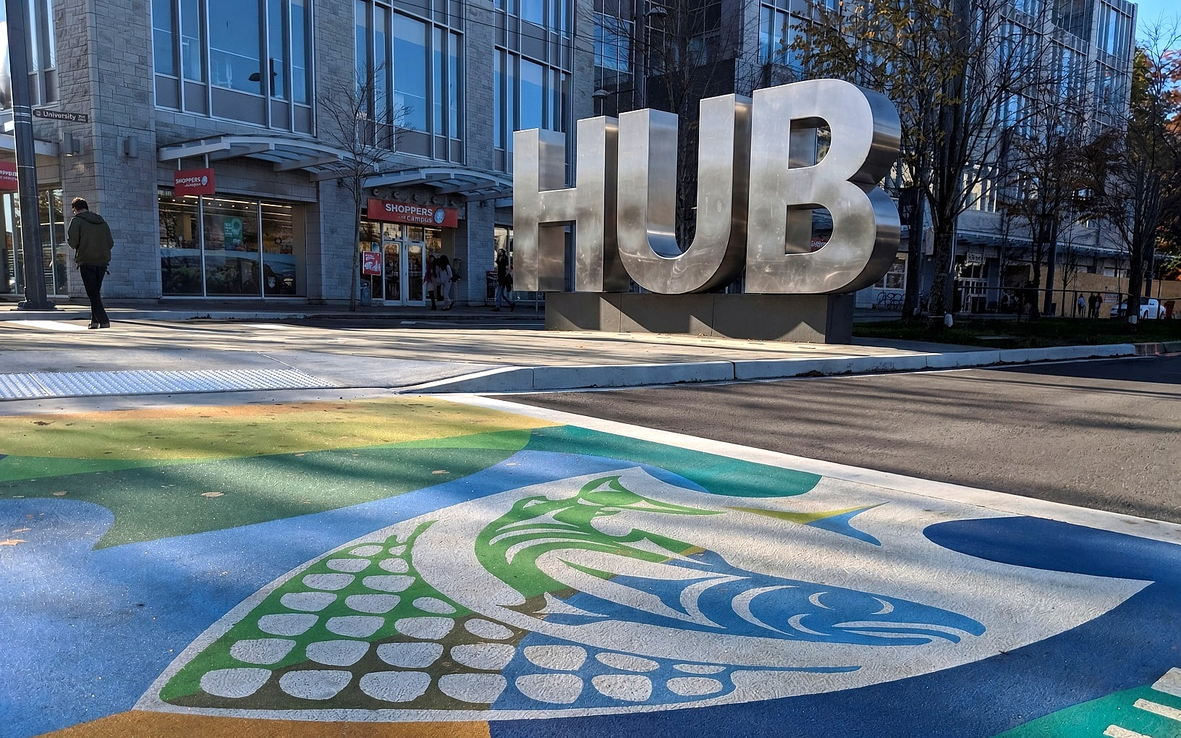
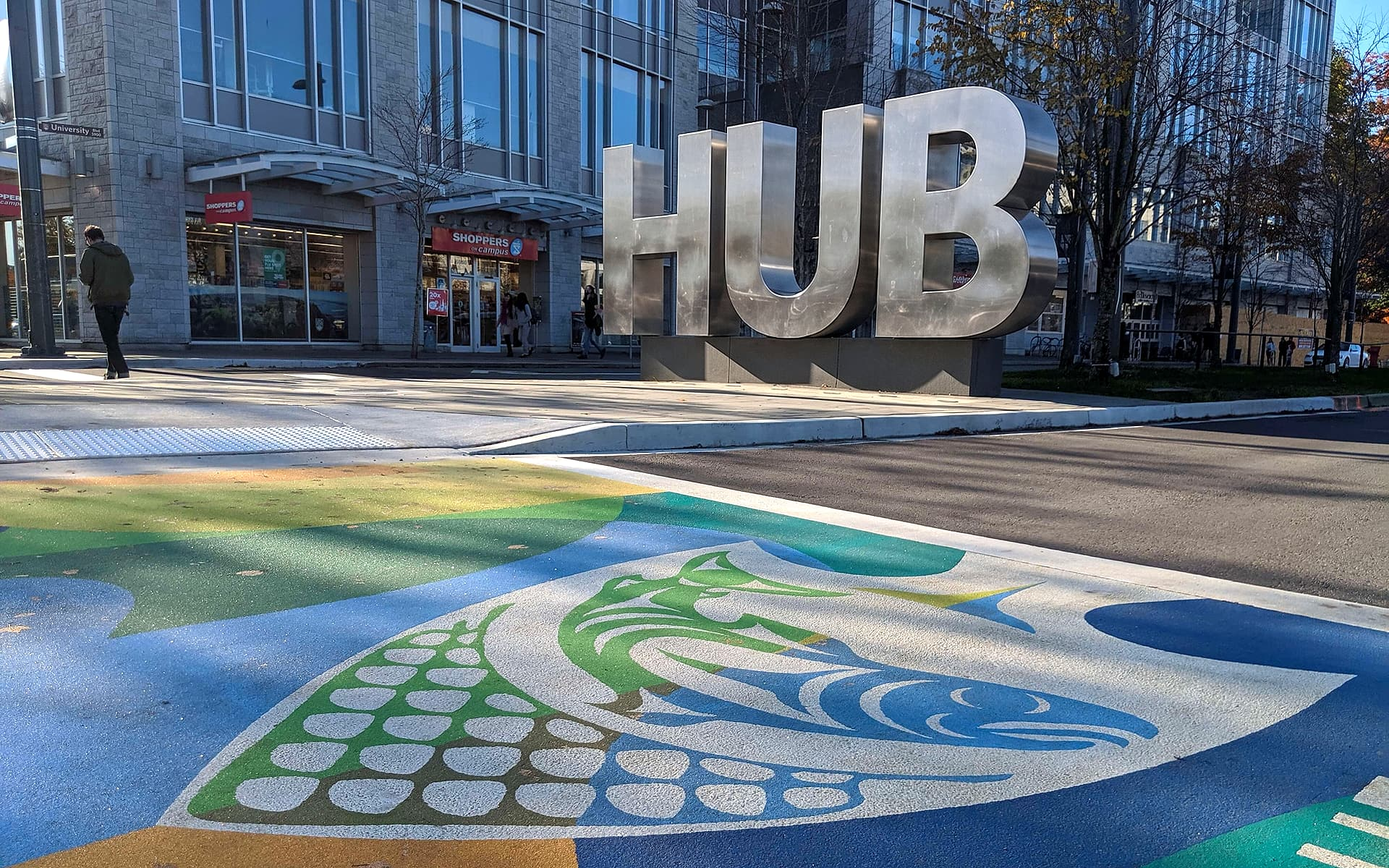
Homepage hero zoomed out on wide windows; new cuts from the full-size photograph
Vern, 2 Oct 2026: "main hero image, can it be zoomed out a bit to show more
of the crosswalk?" (his window was about 1625 x 720: the sign filled the top
half and the Musqueam art was cut off under the headline and buttons).

The photograph is 4:3 with nothing more at its sides, so a full-width
picture in a frame that wide can only show more crosswalk by cutting the
sign. On windows 16:9 and wider (the ones that get hero-1-wide.jpg) the
photo is now shown whole at the hero's height, against the right edge, its
left edge fading into the dark ground under the headline: the sign with a
little air above it and the salmon down through its scales. Trade: there
the picture no longer reaches the left edge (about an eighth of a 16:9
window, at most 30% on very wide ones). 1440 x 900, tablets and phones stay
full-bleed (lib/hero-framing.ts HOME_HERO, HeroSlideshow.tsx .home-hero-img;
the rule takes the wide <source>'s own media query).

The cuts come from a new master at the original's size (2540 x 1904, the
catalogue's "UBC Crosswalk 1.png" with the approved HUB letters pasted in,
toned and feathered; not in the repo). scripts/hero-cuts.mjs: every cut
starts just above the sign; wide is 1.8:1 from row 150; 16:10 from row 71,
which frames at 1440 x 900 as the old file did, so Studio's copy looks the
same until it is replaced (photos:sync); phone keeps the sign's size, starts
at row 110 so the crosswalk band shows at its foot. --grade=pop as on 28 Sep;
[…]

diff --git a/components/sections/HeroSlideshow.tsx b/components/sections/HeroSlideshow.tsx
@@ -5,9 +5,31 @@ import Link from "next/link";
 // fetchPriority="high" ensures the browser's HTML preload scanner picks this up first.
 // || instead of ?? guards against empty-string heroImageSrc from Sanity.
 import { heroAlt } from "@/lib/image-seo";
+import { HOME_HERO } from "@/lib/hero-framing";
 import { isSanityImage, sanitySized, sanitySrcSet } from "@/lib/photos";
 
 const FALLBACK_HERO = "/images/hero/hero-1.jpg";
+
+/**
+ * How the photograph sits in the hero (lib/hero-framing.ts, HOME_HERO). By
+ * default it covers the frame, as it always has. On windows 16:9 and wider,
+ * the ones that get the wide cut, it is shown whole at the hero's height,
+ * against the right edge, its left edge fading into the dark ground under
+ * the headline: 2 Oct 2026, Vern: "main hero image, can it be zoomed out a
+ * bit to show more of the crosswalk?" The rule uses the wide <source>'s own
+ * media query, so the framing and the file always switch together; with no
+ * wide file there is no wide rule.
+ */
+function heroImageCss(wideMedia?: string): string {
+  const w = HOME_HERO.wide;
+  const fade = `linear-gradient(to right, transparent 0, #000 ${w.feather}%)`;
+  return `
+    .home-hero-img { position: absolute; inset: 0; width: 100%; height: 100%; object-fit: cover; object-position: ${HOME_HERO.position}; z-index: 1; }
+    ${wideMedia ? `@media ${wideMedia} {
+      .home-hero-img { left: auto; width: clamp(${w.minWidth}%, calc(${w.heroHeight} * ${w.shape}), 100%); object-position: 50% 0%; -webkit-mask-image: ${fade}; mask-image: ${fade}; }
+    }` : ""}
+  `;
+}
 
 interface HeroSlideshowProps {
   eyebrow?: string;
@@ -45,6 +67,7 @@ export default function HeroSlideshow({
   // A Sanity photo is sized by Sanity's CDN (lib/photos.ts): a phone gets an
   // 828px WebP instead of the full-size original.
   const fromSanity = isSanityImage(src);
+  const wideSource = heroSources.find((v) => v.file === HOME_HERO.wide.file);
 
   return (
     <section
@@ -83,31 +106,16 @@ export default function HeroSlideshow({
           fetchPriority="high"
           // The file is graded when it is cut; this adds the site's lighter
           // hero colour on top (app/globals.css, HERO COLOUR).
-          className="hero-pop-lite"
-          style={{
-            position: "absolute",
-            inset: 0,
-            width: "100%",
-            height: "100%",
-            objectFit: "cover",
-            // The HUB sign is the photograph's subject. Since 26 Sep 2026 the
-            // files are cut from a master with the sign in the middle of
-            // every framing (scripts/hero-cuts.mjs), so a centred crop keeps
-            // it in the middle at every size; a phone gets the 9:16 cut and
-            // a wide window the 2:1 cut through the <picture> above. (The
-            // earlier single landscape file needed 65% across and 0% down to
-            // keep the sign whole; that photograph is gone.)
-            // 28 Sep 2026: across, 69% keeps the whole sign in a portrait
-            // tablet's frame (at 50% the B was cut off at 768 x 1024); it
-            // changes nothing on a landscape screen, where the photo is as
-            // wide as the frame. Down, 42% gives the sign a little more air
-            // under the nav where the frame is wider than the photo (16:10
-            // photo in a 1.8:1 frame at 1440 x 900).
-            objectPosition: "69% 42%",
-            zIndex: 1,
-          }}
+          // Position and size come from .home-hero-img (heroImageCss above): the
+          // HUB sign is the subject and every cut keeps it whole with a
+          // little air above it (scripts/hero-cuts.mjs); a phone gets the 5:4
+          // cut and a window 16:9 or wider the 1.8:1 cut through this
+          // <picture>. The default's object-position and the reasons for it
+          // are HOME_HERO.position in lib/hero-framing.ts.
+          className="hero-pop-lite home-hero-img"
         />
       </picture>
+      <style>{heroImageCss(wideSource?.media)}</style>
 
       {/* ── Gradients — lightened per Doug review for brighter hero ───── */}
       {/* On a phone the picture is lighter (the type is not on it) and only

diff --git a/lib/hero-framing.ts b/lib/hero-framing.ts
@@ -100,3 +100,45 @@ export const HERO_POP_LITE: ReadonlySet<string> = new Set([
 export function heroColourClass(photo: { src: string; origin?: string }): "hero-pop" | "hero-pop-lite" {
   return HERO_POP_LITE.has(photo.origin ?? photo.src) ? "hero-pop-lite" : "hero-pop";
 }
+
+/**
+ * The homepage hero (components/sections/HeroSlideshow.tsx), 2 Oct 2026.
+ *
+ * Vern: "main hero image, can it be zoomed out a bit to show more of the
+ * crosswalk?" His screen was a wide window (about 1625 x 720), where the
+ * hero is about 2.3 to 2.6 times as wide as it is tall. The photograph is
+ * 4:3 and has nothing at its sides beyond what the frame already shows, so a
+ * full-width picture in a frame that wide can only show more crosswalk by
+ * cutting off the sign. Instead, on windows 16:9 and wider (the ones that get
+ * hero-1-wide.jpg, app/page.tsx), the photo is shown whole at the hero's
+ * height: the sign with a little air above it and the salmon down through
+ * its scales. It sits against the right edge and its left edge fades into
+ * the hero's dark ground, where the headline is. That is the trade: on those
+ * windows the photograph no longer runs to the left edge (about an eighth of
+ * the width on a 16:9 screen, up to `minWidth` on wider ones). Screens
+ * narrower than 16:9 (1440 x 900, tablets) and phones keep the full-bleed
+ * framing.
+ */
+export const HOME_HERO = {
+  /**
+   * object-position of the default photo, Studio's 16:10 cut (hero-1.jpg).
+   * Across, 69% keeps the whole sign in a portrait tablet's frame (at 50% the
+   * B was cut off at 768 x 1024, 28 Sep 2026); it changes nothing on a
+   * landscape screen, where the photo is as wide as the frame. Down, 42%
+   * gives the sign a little air under the nav where the frame is wider than
+   * the photo: rows 151-1548 of the master at 1440 x 900 (scripts/hero-cuts.mjs).
+   */
+  position: "69% 42%",
+  /** The framing for windows 16:9 and wider. Applied with the wide <source>'s own media query. */
+  wide: {
+    file: "/images/hero/hero-1-wide.jpg",
+    /** The cut's width over its height (scripts/hero-cuts.mjs makes it 1.8:1). */
+    shape: 1.8,
+    /** The hero's height on those screens, the sm:min-h of the section in HeroSlideshow.tsx. */
+    heroHeight: "88vh",
+    /** The narrowest the photo gets, in % of the window, on a very wide one (21:9); past that its foot is cropped. */
+    minWidth: 70,
+    /** How much of the photo's width, in %, fades into the dark ground on its left. */
+    feather: 22,
+  },
+} as const;
